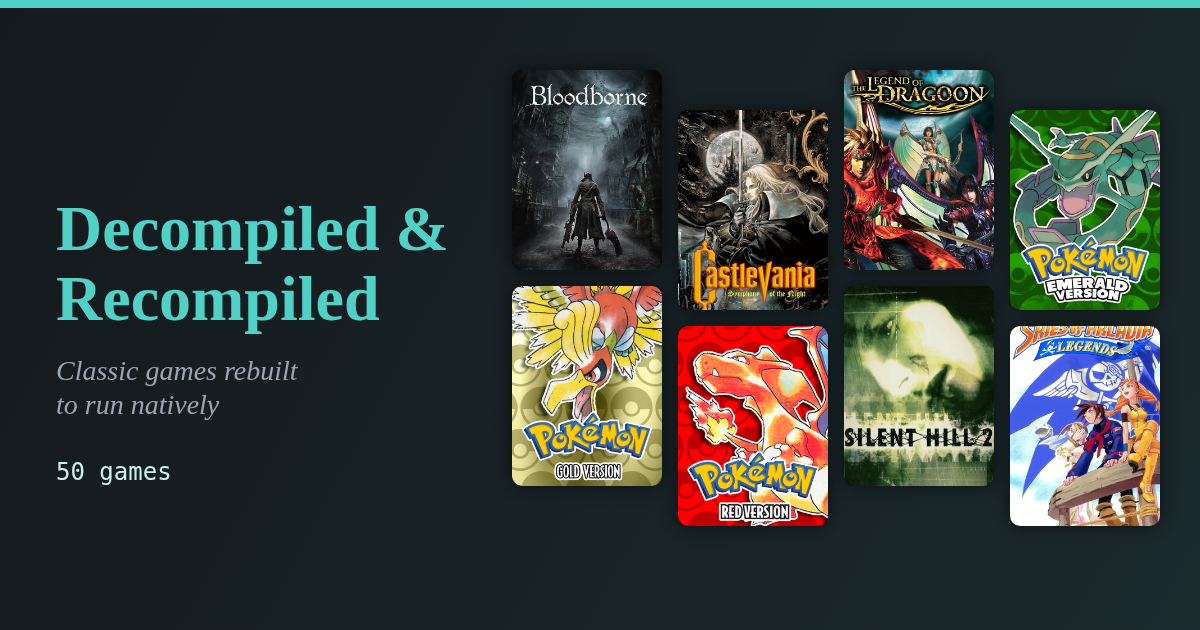
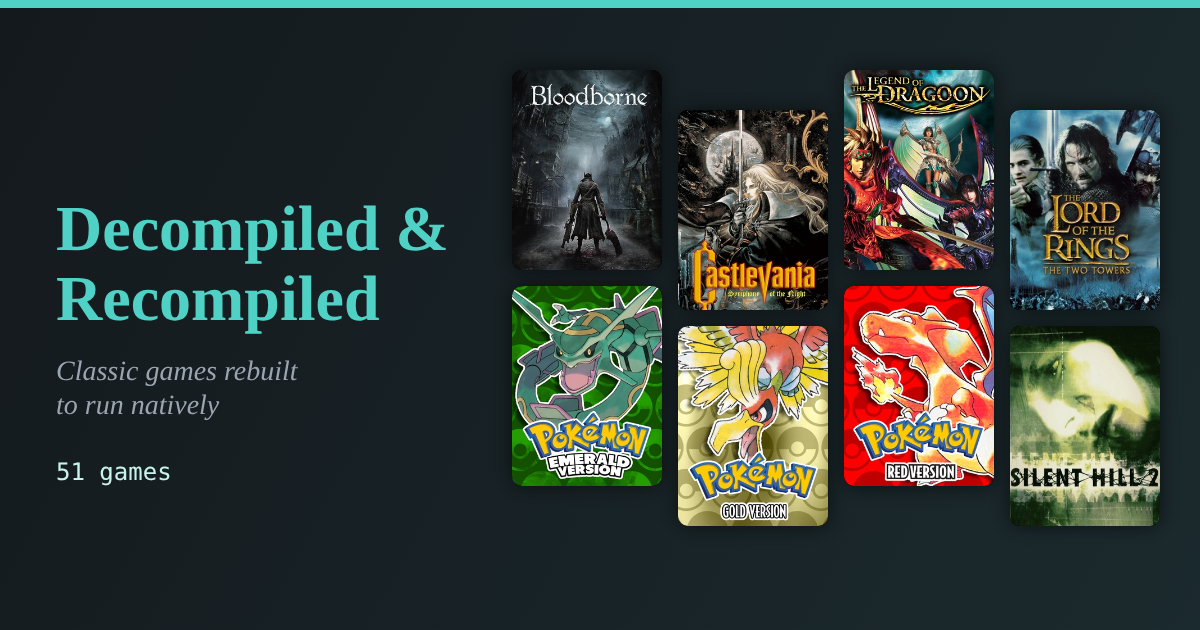
2026-10-25 16:19

Changed region(s): [[0.4008, 0.1508, 0.9867, 0.8444], [0.0617, 0.7238, 0.1542, 0.754]]

diff --git a/recomp/index.html b/recomp/index.html
@@ -33,7 +33,7 @@
 <div id="recomp-body"></div>
 <div class="recomp-header-sub">Updated 2026-10-25</div>
 </div>
-<script type="application/json" id="recomp-data">[{"title":"Banjo-Kazooie","year":"1998","status":"Released","badge":null,"hq":false,"platform":["N64"],"target":["3DS","PC"],"notes":"Supports 3D","cover":"img/banjo-kazooie.png","urls":["https://github.com/aidenator/Lighthouse-3DS/releases","https://github.com/BanjoRecomp/BanjoRecomp/releases"]},{"title":"Bloodborne","year":"2015","status":"Released","badge":null,"hq":true,"platform":["PS4"],"target":["PC"],"notes":"v0.6 - high quality","cover":"img/bloodborne.jpg","urls":["https://github.com/deadinside28/bloodborne_pc/releases"]},{"title":"Burnout 3: Takedown","year":"2004","status":"Released","badge":null,"hq":false,"platform":["PS2"],"target":["PC"],"notes":"","cover":"img/burnout-3-takedown.jpg","urls":["https://github.com/danielgomesvieira2000/burnout3-pc/releases"]},{"title":"Castlevania: Symphony of the Night","year":"1997","status":"Released","badge":null,"hq":true,"platform":["PS1","Saturn"],"target":["PC"],"notes":"In addition to a PC recomp, there is a Sega Saturn in English with PS1 voices.","cover":"img/castlevania-symphony-of-the-night.jpg","urls":["https://github.com/birabittoh/NocturneRecomp/releases","https://www.youtube.com/watch?v=ZLg1NLHEOTk"]},{"title":"Dark Cloud","year":"2000","status":"Unverified","badge":"UNVERIFIED","hq":false,"platform":["PS2"],"target":["PC"],"notes":"Not started until after 2?","cover":"img/dark-cloud.jpg","urls":["https://github.com/TheMoonPeople/Chronicle"]},{"title":"Dark Cloud 2","year":"2002","status":"In Progress","badge":"IN PROGRESS","hq":false,"platform":["PS2"],"target":["PC"],"notes":"v0.9.5 - playable, needs improvement","cover":"img/dark-cloud-2.jpg","urls":["https://github.com/Red-tv141/DC2-PS2RECOMP/releases"]},{"title":"Deception I - Tecmo's Deception: Invitation to Darkness","year":"1996","status":"Unverified","badge":"NEEDS WORK","hq":false,"platform":["PS1"],"target":["PC"],"notes":"Unsure about saving, poor fullscreen UI and mouse usage. Seems more like a wrapper for PCSXE, no graphics options. Runs fine.","cover":"img/deception-i-tecmo-s-deception-invitation-to-darkness.jpg","urls":["https://github.com/dannyowelch/deception-recomp/releases"]},{"title":"Dinosaur Planet","year":"","status":"Released","badge":null,"hq":false,"platform":["N64"],"target":["PC"],"notes":"Unrelease precursor to Starfox Adventures","cover":"img/dinosaur-planet.jpg","urls":["https://github.com/DinosaurPlanetRecomp/dino-recomp/releases"]},{"title":"Donkey Kong 64","year":"","status":"Released","badge":null,"hq":false,"platform":["N64"],"target":["PC","3DS"],"notes":"","cover":"img/donkey-kong-64.jpg","urls":["https://github.com/Rainchus/Donkey-Kong-64-Recompiled/releases","https://github.com/oneup03/Donkey-Kong-64-3D/tree/main/platform/3ds"]},{"title":"Eternal Darkness: Sanity's Requiem","year":"2002","status":"Released","badge":null,"hq":false,"platform":["GC"],"target":["PC"],"notes":"","cover":"img/eternal-darkness-sanity-s-requiem.jpg","urls":["https://github.com/griches/EternalDarknessRecomp/releases"]},{"title":"God of War III","year":"","status":"Released","badge":null,"hq":false,"platform":["PS4"],"target":["PC"],"notes":"Recomp of PS4 remastered edition.","cover":"img/god-of-war-iii.jpg","urls":["https://github.com/FelipePrado0/SpartanPort/releases"]},{"title":"GoldenEye 007 XBLA","year":"2010","status":"Released","badge":null,"hq":false,"platform":["N64","Xbox"],"target":["PC"],"notes":"Unreleased XBOX/XBLA version. A N64 recomp also exists.","cover":"img/goldeneye-007-xbla.jpg","urls":["https://github.com/CaiusCodes/GoldenEye-007-XBLA-PC-Recomp/releases"]},{"title":"Gravity Rush","year":"2012","status":"Released","badge":null,"hq":false,"platform":["PS4"],"target":["PC"],"notes":"v0.1.8","cover":"img/gravity-rush.jpg","urls":["https://github.com/LucaPazienza/gravityrush_pc/releases/"]},{"title":"Gravity Rush 2","year":"2017","status":"Released","badge":null,"hq":false,"platform":["PS4"],"target":["PC"],"notes":"Same author as Last Guardian port.","cover":["https://cdn2.steamgriddb.com/thumb/6ac9536a82fe2896847e4c4fb1f72de2.jpg"],"urls":["https://recompsoftware.com/p/gr2-pc/"]},{"title":"Ico","year":"2001","status":"Released","badge":null,"hq":false,"platform":["PS2"],"target":["PC"],"notes":"v0.8.6","cover":"img/ico.jpg","urls":["https://github.com/nathanialf/ico-pc/releases"]},{"title":"Jak and Daxter: The Precursor Legacy","year":"2001","status":"Released","badge":null,"hq":false,"platform":["PS2"],"target":["PC"],"notes":"OpenGOAL is a total engine rewrite for Jak 1,2,3.","cover":"img/jak-and-daxter-the-precursor-legacy.jpg","urls":["https://opengoal.dev/"]},{"title":"Jet Force Gemini","year":"1999","status":"Released","badge":null,"hq":false,"platform":["N64"],"target":["PC"],"notes":"","cover":"img/jet-force-gemini.jpg","urls":["https://github.com/TK22-26/JetForceGemini-Recomp/releases"]},{"title":"King's Field IV The Ancient City","year":"2001","status":"Unverified","badge":"UNVERIFIED","hq":false,"platform":["PS2"],"target":["PC"],"notes":"","cover":"img/king-s-field-iv-the-ancient-city.jpg","urls":["https://voicedrew11.github.io/kfiv-decomp/progress/"]},{"title":"Legend of Dragoon","year":"2000","status":"Released","badge":null,"hq":true,"platform":["PS1"],"target":["PC"],"notes":"v3.0 - high quality","cover":"img/legend-of-dragoon.jpg","urls":["https://github.com/Legend-of-Dragoon-Modding/Severed-Chains/releases"]},{"title":"Mega Man Legends","year":"1997","status":"Released","badge":null,"hq":false,"platform":["PS1"],"target":["PC"],"notes":"","cover":"img/mega-man-legends.jpg","urls":["https://github.com/VuloB1/MegaManLegendsRecomp/releases/tag/v0.1.0"]},{"title":"Mega Man Legends 2","year":"2000","status":"Unverified","badge":"UNVERIFIED","hq":false,"platform":["PS1"],"target":["PC"],"notes":"Unverified","cover":"img/mega-man-legends-2.jpg","urls":["https://github.com/alexbeavs-ps1-ports/mega-man-legends-2-recomp/releases"]},{"title":"Metroid Prime: Hunters","year":"2006","status":"Released","badge":null,"hq":false,"platform":["DS"],"target":["PC"],"notes":"","cover":"img/metroid-prime-hunters.jpg","urls":["https://github.com/mstan/MetroidPrimeHuntersRecomp/releases","https://github.com/BountyHunterKanden/SecondHunt/releases"]},{"title":"Monster Hunter Generations Ultimate","year":"","status":"Unverified","badge":"UNVERIFIED","hq":false,"platform":["SWITCH"],"target":["PC"],"notes":"","cover":"img/monster-hunter-generations-ultimate.jpg","urls":["https://github.com/morerokk/MHGURecomp/releases"]},{"title":"P.T.","year":"2014","status":"Released","badge":null,"hq":false,"platform":["PS4"],"target":["PC"],"notes":"One of the dumbest things sony ever did was not follow-up this demo.","cover":"img/p-t.jpg","urls":["https://github.com/LoreanXavier/pt-pc/releases"]},{"title":"Papers, Please","year":"2013","status":"Released","badge":null,"hq":false,"platform":["PC"],"target":["3DS"],"notes":"","cover":"img/papers-please.jpg","urls":["https://github.com/Gab2006/Papers-Please3ds/releases/tag/release"]},{"title":"Parasite Eve","year":"1998","status":"Unverified","badge":"UNVERIFIED","hq":false,"platform":["PS1"],"target":["PC"],"notes":"","cover":"img/parasite-eve.jpg","urls":["https://github.com/khasinski/parasite-eve-pc/releases"]},{"title":"Perfect Dark","year":"2000","status":"Released","badge":null,"hq":false,"platform":["N64"],"target":["PC"],"notes":"","cover":"img/perfect-dark.jpg","urls":["https://github.com/n64hub/perfect-dark-recomp/releases"]},{"title":"Pokémon Emerald","year":"2004","status":"Released","badge":null,"hq":true,"platform":["GBA"],"target":["3DS"],"notes":"Dual screen support, 3D voxel graphics option.","cover":"img/pokemon-emerald.jpg","urls":["https://emerald-3ds.com/"]},{"title":"Pokémon Gold","year":"1999","status":"Released","badge":null,"hq":true,"platform":["GB"],"target":["PC"],"notes":"Might prefer Polished Crystal romhack to this recomp.","cover":"img/pokemon-gold.jpg","urls":["https://gen2recomp.net/"]},{"title":"Pokémon Red","year":"1996","status":"Released","badge":null,"hq":true,"platform":["GB"],"target":["PC"],"notes":"","cover":"img/pokemon-red.jpg","urls":["https://gen1recomp.com/"]},{"title":"Resident Evil: Code: Veronica","year":"2000","status":"Released","badge":null,"hq":false,"platform":["PS2"],"target":["PC"],"notes":"","cover":"img/resident-evil-code-veronica.jpg","urls":["https://github.com/aikatore/recvx-enhanced-port/releases"]},{"title":"Shadow of the Colossus","year":"2005","status":"Released","badge":null,"hq":false,"platform":["PS2","PS4"],"target":["PC"],"notes":"PS4 version, may only have windows executable.","cover":"img/shadow-of-the-colossus.jpg","urls":["https://github.com/AjncSystem/ShadowOfTheColossus-PC/releases"]},{"title":"Silent Hill","year":"1999","status":"Released","badge":null,"hq":false,"platform":["PS1"],"target":["PC"],"notes":"","cover":"img/silent-hill.jpg","urls":["https://github.com/SlickAmogus/silent-hill-decomp/releases"]},{"title":"Silent Hill 2","year":"2001","status":"Released","badge":null,"hq":true,"platform":["PS2"],"target":["3DS","PC"],"notes":"sh23ds is a new engine, written in C for the 3DS, that plays Silent Hill 2 from the PC version's own data.","cover":"img/silent-hill-2.jpg","urls":["https://github.com/ankushKun/sh23ds/releases"]},{"title":"Silent Hill: Downpour","year":"2011","status":"Released","badge":null,"hq":false,"platform":["PS3"],"target":["PC"],"notes":"v1.1.8","cover":"img/silent-hill-downpour.jpg","urls":["https://github.com/LittleBitUA/DownpourRecomp/releases"]},{"title":"Skies of Arcadia","year":"2000","status":"Released","badge":null,"hq":true,"platform":["GC"],"target":["PC"],"notes":"Allows extraction of uncompressed audio from dreamcast version for usage in gamecube game. Allows minor un-censorship using Japanese dreamcast version.","cover":"img/skies-of-arcadia.jpg","urls":["https://github.com/ogdanimal/SkiesOfArcadiaLegends-Recomp/releases"]},{"title":"Splatoon","year":"2015","status":"Unverified","badge":"UNVERIFIED","hq":false,"platform":["WiiU"],"target":["PC"],"notes":"No release binary.","cover":"img/splatoon.jpg","urls":["https://github.com/PC-PORTERS/SPLATOON-1-PC-PORT"]},{"title":"Super Mario 64","year":"1996","status":"Released","badge":null,"hq":true,"platform":["N64"],"target":["3DS"],"notes":"Supports 3D","cover":"img/super-mario-64.png","urls":["https://github.com/Splashy527/sm64-port"]},{"title":"The Elder Scrolls III: Morrowind (openMW - Tamriel Rebuild)","year":"2002","status":"Released","badge":null,"hq":true,"platform":["PC"],"target":["PC"],"notes":"OpenMW is a total engine rewrite and the preferred way to play.","cover":"img/the-elder-scrolls-iii-morrowind-openmw-tamriel-rebuild.jpg","urls":["https://openmw.org/","https://www.tamriel-rebuilt.org/","https://openmw-vr.readthedocs.io/en/latest/manuals/installation/install-openmw-vr.html"]},{"title":"The Last Guardian","year":"2016","status":"Released","badge":null,"hq":false,"platform":["PS4"],"target":["PC"],"notes":"","cover":"img/the-last-guardian.jpg","urls":["https://github.com/HayatoG/tlg_pc/releases"]},{"title":"The Legend of Zelda: A Link to the Past","year":"","status":"Released","badge":null,"hq":false,"platform":["SNES"],"target":["3DS","PC"],"notes":"Supports dual screen","cover":"img/the-legend-of-zelda-a-link-to-the-past.jpg","urls":["https://github.com/EstebanPdN/zelda-alttp-3ds/releases"]},{"title":"The Legend of Zelda: Link's Awakening","year":"2019","status":"Released","badge":null,"hq":false,"platform":["SWITCH"],"target":["PC"],"notes":"","cover":"img/the-legend-of-zelda-link-s-awakening.png","urls":["https://github.com/peiikai/LASRecomp/releases"]},{"title":"The Legend of Zelda: Link's Awakening DX","year":"1993","status":"Released","badge":null,"hq":false,"platform":["GB"],"target":["PC"],"notes":"Full remake","cover":"img/the-legend-of-zelda-link-s-awakening-dx.jpg","urls":["https://archive.org/details/links-awakening-dx-hd"]},{"title":"The Legend of Zelda: Majora's Mask","year":"2000","status":"Released","badge":null,"hq":false,"platform":["N64"],"target":["PC"],"notes":"v1.2.2","cover":"img/the-legend-of-zelda-majora-s-mask.jpg","urls":["https://github.com/Zelda64Recomp/Zelda64Recomp/releases"]},{"title":"The Legend of Zelda: Ocarina of Time","year":"1998","status":"Released","badge":null,"hq":true,"platform":["N64"],"target":["PC","PSP"],"notes":"High quality. Includes randomizer.","cover":"img/the-legend-of-zelda-ocarina-of-time.jpg","urls":["https://www.shipofharkinian.com/","https://github.com/z2442/oot-PSP/releases"]},{"title":"The Legend of Zelda: The Wind Waker","year":"2002","status":"Released","badge":null,"hq":true,"platform":["GC","WiiU"],"target":["PC"],"notes":"","cover":"img/the-legend-of-zelda-the-wind-waker.jpg","urls":["https://github.com/ZeldaWWHDRecomp/ZeldaWWHDRecomp/releases"]},{"title":"The Legend of Zelda: Twilight Princess","year":"2006","status":"Released","badge":null,"hq":true,"platform":["GC"],"target":["PC"],"notes":"High quality","cover":"img/the-legend-of-zelda-twilight-princess.jpg","urls":["https://twilitrealm.dev/"]},{"title":"The Simpsons: Hit & Run","year":"2003","status":"Released","badge":null,"hq":true,"platform":["PC"],"target":["3DS"],"notes":"Supports 3D and second screen radar map.","cover":"img/the-simpsons-hit-run.jpg","urls":["https://github.com/AlexMolina08/The-Simpsons-Hit-and-Run-O3DS/releases"]},{"title":"Uncharted: The Nathan Drake Collection","year":"2015","status":"Released","badge":null,"hq":true,"platform":["PS4"],"target":["PC"],"notes":"v0.3.9 wndows/proton","cover":"img/uncharted-the-nathan-drake-collection.jpg","urls":["https://github.com/Supermedo/uncharted_pc/releases"]},{"title":"Valkyrie Profile","year":"1999","status":"Unverified","badge":"UNVERIFIED","hq":false,"platform":["PS1"],"target":["PC"],"notes":"Unverified. Uses PSXRecomp. PSP vesion Lenneth might be a better experience.","cover":"img/valkyrie-profile.jpg","urls":["https://github.com/Ed1z19/ValkyrieRecomp/releases","https://github.com/hachi23/ValkyrieRecomp-Complete"]}]</script>
+<script type="application/json" id="recomp-data">[{"title":"Banjo-Kazooie","year":"1998","status":"Released","badge":null,"hq":false,"platform":["N64"],"target":["3DS","PC"],"notes":"Supports 3D","cover":"img/banjo-kazooie.png","urls":["https://github.com/aidenator/Lighthouse-3DS/releases","https://github.com/BanjoRecomp/BanjoRecomp/releases"]},{"title":"Bloodborne","year":"2015","status":"Released","badge":null,"hq":true,"platform":["PS4"],"target":["PC"],"notes":"v0.6 - high quality","cover":"img/bloodborne.jpg","urls":["https://github.com/deadinside28/bloodborne_pc/releases"]},{"title":"Burnout 3: Takedown","year":"2004","status":"Released","badge":null,"hq":false,"platform":["PS2"],"target":["PC"],"notes":"","cover":"img/burnout-3-takedown.jpg","urls":["https://github.com/danielgomesvieira2000/burnout3-pc/releases"]},{"title":"Castlevania: Symphony of the Night","year":"1997","status":"Released","badge":null,"hq":true,"platform":["PS1","Saturn"],"target":["PC"],"notes":"In addition to a PC recomp, there is a Sega Saturn in English with PS1 voices.","cover":"img/castlevania-symphony-of-the-night.jpg","urls":["https://github.com/birabittoh/NocturneRecomp/releases","https://www.youtube.com/watch?v=ZLg1NLHEOTk"]},{"title":"Dark Cloud","year":"2000","status":"Unverified","badge":"UNVERIFIED","hq":false,"platform":["PS2"],"target":["PC"],"notes":"Not started until after 2?","cover":"img/dark-cloud.jpg","urls":["https://github.com/TheMoonPeople/Chronicle"]},{"title":"Dark Cloud 2","year":"2002","status":"In Progress","badge":"IN PROGRESS","hq":false,"platform":["PS2"],"target":["PC"],"notes":"v0.9.5 - playable, needs improvement","cover":"img/dark-cloud-2.jpg","urls":["https://github.com/Red-tv141/DC2-PS2RECOMP/releases"]},{"title":"Deception I - Tecmo's Deception: Invitation to Darkness","year":"1996","status":"Unverified","badge":"NEEDS WORK","hq":false,"platform":["PS1"],"target":["PC"],"notes":"Unsure about saving, poor fullscreen UI and mouse usage. Seems more like a wrapper for PCSXE, no graphics options. Runs fine.","cover":"img/deception-i-tecmo-s-deception-invitation-to-darkness.jpg","urls":["https://github.com/dannyowelch/deception-recomp/releases"]},{"title":"Dinosaur Planet","year":"","status":"Released","badge":null,"hq":false,"platform":["N64"],"target":["PC"],"notes":"Unrelease precursor to Starfox Adventures","cover":"img/dinosaur-planet.jpg","urls":["https://github.com/DinosaurPlanetRecomp/dino-recomp/releases"]},{"title":"Donkey Kong 64","year":"","status":"Released","badge":null,"hq":false,"platform":["N64"],"target":["PC","3DS"],"notes":"","cover":"img/donkey-kong-64.jpg","urls":["https://github.com/Rainchus/Donkey-Kong-64-Recompiled/releases","https://github.com/oneup03/Donkey-Kong-64-3D/tree/main/platform/3ds"]},{"title":"Eternal Darkness: Sanity's Requiem","year":"2002","status":"Released","badge":null,"hq":false,"platform":["GC"],"target":["PC"],"notes":"","cover":"img/eternal-darkness-sanity-s-requiem.jpg","urls":["https://github.com/griches/EternalDarknessRecomp/releases"]},{"title":"God of War III","year":"","status":"Released","badge":null,"hq":false,"platform":["PS4"],"target":["PC"],"notes":"Recomp of PS4 remastered edition.","cover":"img/god-of-war-iii.jpg","urls":["https://github.com/FelipePrado0/SpartanPort/releases"]},{"title":"GoldenEye 007 XBLA","year":"2010","status":"Released","badge":null,"hq":false,"platform":["N64","Xbox"],"target":["PC"],"notes":"Unreleased XBOX/XBLA version. A N64 recomp also exists.","cover":"img/goldeneye-007-xbla.jpg","urls":["https://github.com/CaiusCodes/GoldenEye-007-XBLA-PC-Recomp/releases"]},{"title":"Gravity Rush","year":"2012","status":"Released","badge":null,"hq":false,"platform":["PS4"],"target":["PC"],"notes":"v0.1.8","cover":"img/gravity-rush.jpg","urls":["https://github.com/LucaPazienza/gravityrush_pc/releases/"]},{"title":"Gravity Rush 2","year":"2017","status":"Released","badge":null,"hq":false,"platform":["PS4"],"target":["PC"],"notes":"Same author as Last Guardian port.","cover":["https://cdn2.steamgriddb.com/thumb/6ac9536a82fe2896847e4c4fb1f72de2.jpg"],"urls":["https://recompsoftware.com/p/gr2-pc/"]},{"title":"Ico","year":"2001","status":"Released","badge":null,"hq":false,"platform":["PS2"],"target":["PC"],"notes":"v0.8.6","cover":"img/ico.jpg","urls":["https://github.com/nathanialf/ico-pc/releases"]},{"title":"Jak and Daxter: The Precursor Legacy","year":"2001","status":"Released","badge":null,"hq":false,"platform":["PS2"],"target":["PC"],"notes":"OpenGOAL is a total engine rewrite for Jak 1,2,3.","cover":"img/jak-and-daxter-the-precursor-legacy.jpg","urls":["https://opengoal.dev/"]},{"title":"Jet Force Gemini","year":"1999","status":"Released","badge":null,"hq":false,"platform":["N64"],"target":["PC"],"notes":"","cover":"img/jet-force-gemini.jpg","urls":["https://github.com/TK22-26/JetForceGemini-Recomp/releases"]},{"title":"King's Field IV The Ancient City","year":"2001","status":"Unverified","badge":"UNVERIFIED","hq":false,"platform":["PS2"],"target":["PC"],"notes":"","cover":"img/king-s-field-iv-the-ancient-city.jpg","urls":["https://voicedrew11.github.io/kfiv-decomp/progress/"]},{"title":"Legend of Dragoon","year":"2000","status":"Released","badge":null,"hq":true,"platform":["PS1"],"target":["PC"],"notes":"v3.0 - high quality","cover":"img/legend-of-dragoon.jpg","urls":["https://github.com/Legend-of-Dragoon-Modding/Severed-Chains/releases"]},{"title":"Lord of the Rings - Athelas","year":"2002","status":"Released","badge":null,"hq":true,"platform":["XBOX"],"target":["PC"],"notes":"3 Xbox games, Fellowship, Two Towers, and Return of the King","cover":"img/lord-of-the-rings-athelas.jpg","urls":["https://github.com/Shagg88/Athelas/releases/tag/1.6.0"]},{"title":"Mega Man Legends","year":"1997","status":"Released","badge":null,"hq":false,"platform":["PS1"],"target":["PC"],"notes":"","cover":"img/mega-man-legends.jpg","urls":["https://github.com/VuloB1/MegaManLegendsRecomp/releases/tag/v0.1.0"]},{"title":"Mega Man Legends 2","year":"2000","status":"Unverified","badge":"UNVERIFIED","hq":false,"platform":["PS1"],"target":["PC"],"notes":"Unverified","cover":"img/mega-man-legends-2.jpg","urls":["https://github.com/alexbeavs-ps1-ports/mega-man-legends-2-recomp/releases"]},{"title":"Metroid Prime: Hunters","year":"2006","status":"Released","badge":null,"hq":false,"platform":["DS"],"target":["PC"],"notes":"","cover":"img/metroid-prime-hunters.jpg","urls":["https://github.com/mstan/MetroidPrimeHuntersRecomp/releases","https://github.com/BountyHunterKanden/SecondHunt/releases"]},{"title":"Monster Hunter Generations Ultimate","year":"","status":"Unverified","badge":"UNVERIFIED","hq":false,"platform":["SWITCH"],"target":["PC"],"notes":"","cover":"img/monster-hunter-generations-ultimate.jpg","urls":["https://github.com/morerokk/MHGURecomp/releases"]},{"title":"P.T.","year":"2014","status":"Released","badge":null,"hq":false,"platform":["PS4"],"target":["PC"],"notes":"One of the dumbest things sony ever did was not follow-up this demo.","cover":"img/p-t.jpg","urls":["https://github.com/LoreanXavier/pt-pc/releases"]},{"title":"Papers, Please","year":"2013","status":"Released","badge":null,"hq":false,"platform":["PC"],"target":["3DS"],"notes":"","cover":"img/papers-please.jpg","urls":["https://github.com/Gab2006/Papers-Please3ds/releases/tag/release"]},{"title":"Parasite Eve","year":"1998","status":"Unverified","badge":"UNVERIFIED","hq":false,"platform":["PS1"],"target":["PC"],"notes":"","cover":"img/parasite-eve.jpg","urls":["https://github.com/khasinski/parasite-eve-pc/releases"]},{"title":"Perfect Dark","year":"2000","status":"Released","badge":null,"hq":false,"platform":["N64"],"target":["PC"],"notes":"","cover":"img/perfect-dark.jpg","urls":["https://github.com/n64hub/perfect-dark-recomp/releases"]},{"title":"Pokémon Emerald","year":"2004","status":"Released","badge":null,"hq":true,"platform":["GBA"],"target":["3DS"],"notes":"Dual screen support, 3D voxel graphics option.","cover":"img/pokemon-emerald.jpg","urls":["https://emerald-3ds.com/"]},{"title":"Pokémon Gold","year":"1999","status":"Released","badge":null,"hq":true,"platform":["GB"],"target":["PC"],"notes":"Might prefer Polished Crystal romhack to this recomp.","cover":"img/pokemon-gold.jpg","urls":["https://gen2recomp.net/"]},{"title":"Pokémon Red","year":"1996","status":"Released","badge":null,"hq":true,"platform":["GB"],"target":["PC"],"notes":"","cover":"img/pokemon-red.jpg","urls":["https://gen1recomp.com/"]},{"title":"Resident Evil: Code: Veronica","year":"2000","status":"Released","badge":null,"hq":false,"platform":["PS2"],"target":["PC"],"notes":"","cover":"img/resident-evil-code-veronica.jpg","urls":["https://github.com/aikatore/recvx-enhanced-port/releases"]},{"title":"Shadow of the Colossus","year":"2005","status":"Released","badge":null,"hq":false,"platform":["PS2","PS4"],"target":["PC"],"notes":"PS4 version, may only have windows executable.","cover":"img/shadow-of-the-colossus.jpg","urls":["https://github.com/AjncSystem/ShadowOfTheColossus-PC/releases"]},{"title":"Silent Hill","year":"1999","status":"Released","badge":null,"hq":false,"platform":["PS1"],"target":["PC"],"notes":"","cover":"img/silent-hill.jpg","urls":["https://github.com/SlickAmogus/silent-hill-decomp/releases"]},{"title":"Silent Hill 2","year":"2001","status":"Released","badge":null,"hq":true,"platform":["PS2"],"target":["3DS","PC"],"notes":"sh23ds is a new engine, written in C for the 3DS, that plays Silent Hill 2 from the PC version's own data.","cover":"img/silent-hill-2.jpg","urls":["https://github.com/ankushKun/sh23ds/releases"]},{"title":"Silent Hill: Downpour","year":"2011","status":"Released","badge":null,"hq":false,"platform":["PS3"],"target":["PC"],"notes":"v1.1.8","cover":"img/silent-hill-downpour.jpg","urls":["https://github.com/LittleBitUA/DownpourRecomp/releases"]},{"title":"Skies of Arcadia","year":"2000","status":"Released","badge":null,"hq":true,"platform":["GC"],"target":["PC"],"notes":"Allows extraction of uncompressed audio from dreamcast version for usage in gamecube game. Allows minor un-censorship using Japanese dreamcast version.","cover":"img/skies-of-arcadia.jpg","urls":["https://github.com/ogdanimal/SkiesOfArcadiaLegends-Recomp/releases"]},{"title":"Splatoon","year":"2015","status":"Unverified","badge":"UNVERIFIED","hq":false,"platform":["WiiU"],"target":["PC"],"notes":"No release binary.","cover":"img/splatoon.jpg","urls":["https://github.com/PC-PORTERS/SPLATOON-1-PC-PORT"]},{"title":"Super Mario 64","year":"1996","status":"Released","badge":null,"hq":true,"platform":["N64"],"target":["3DS"],"notes":"Supports 3D","cover":"img/super-mario-64.png","urls":["https://github.com/Splashy527/sm64-port"]},{"title":"The Elder Scrolls III: Morrowind (openMW - Tamriel Rebuild)","year":"2002","status":"Released","badge":null,"hq":true,"platform":["PC"],"target":["PC"],"notes":"OpenMW is a total engine rewrite and the preferred way to play.","cover":"img/the-elder-scrolls-iii-morrowind-openmw-tamriel-rebuild.jpg","urls":["https://openmw.org/","https://www.tamriel-rebuilt.org/","https://openmw-vr.readthedocs.io/en/latest/manuals/installation/install-openmw-vr.html"]},{"title":"The Last Guardian","year":"2016","status":"Released","badge":null,"hq":false,"platform":["PS4"],"target":["PC"],"notes":"","cover":"img/the-last-guardian.jpg","urls":["https://github.com/HayatoG/tlg_pc/releases"]},{"title":"The Legend of Zelda: A Link to the Past","year":"","status":"Released","badge":null,"hq":false,"platform":["SNES"],"target":["3DS","PC"],"notes":"Supports dual screen","cover":"img/the-legend-of-zelda-a-link-to-the-past.jpg","urls":["https://github.com/EstebanPdN/zelda-alttp-3ds/releases"]},{"title":"The Legend of Zelda: Link's Awakening","year":"2019","status":"Released","badge":null,"hq":false,"platform":["SWITCH"],"target":["PC"],"notes":"","cover":"img/the-legend-of-zelda-link-s-awakening.png","urls":["https://github.com/peiikai/LASRecomp/releases"]},{"title":"The Legend of Zelda: Link's Awakening DX","year":"1993","status":"Released","badge":null,"hq":false,"platform":["GB"],"target":["PC"],"notes":"Full remake","cover":"img/the-legend-of-zelda-link-s-awakening-dx.jpg","urls":["https://archive.org/details/links-awakening-dx-hd"]},{"title":"The Legend of Zelda: Majora's Mask","year":"2000","status":"Released","badge":null,"hq":false,"platform":["N64"],"target":["PC"],"notes":"v1.2.2","cover":"img/the-legend-of-zelda-majora-s-mask.jpg","urls":["https://github.com/Zelda64Recomp/Zelda64Recomp/releases"]},{"title":"The Legend of Zelda: Ocarina of Time","year":"1998","status":"Released","badge":null,"hq":true,"platform":["N64"],"target":["PC","PSP"],"notes":"High quality. Includes randomizer.","cover":"img/the-legend-of-zelda-ocarina-of-time.jpg","urls":["https://www.shipofharkinian.com/","https://github.com/z2442/oot-PSP/releases"]},{"title":"The Legend of Zelda: The Wind Waker","year":"2002","status":"Released","badge":null,"hq":true,"platform":["GC","WiiU"],"target":["PC"],"notes":"","cover":"img/the-legend-of-zelda-the-wind-waker.jpg","urls":["https://github.com/ZeldaWWHDRecomp/ZeldaWWHDRecomp/releases"]},{"title":"The Legend of Zelda: Twilight Princess","year":"2006","status":"Released","badge":null,"hq":true,"platform":["GC"],"target":["PC"],"notes":"High quality","cover":"img/the-legend-of-zelda-twilight-princess.jpg","urls":["https://twilitrealm.dev/"]},{"title":"The Simpsons: Hit & Run","year":"2003","status":"Released","badge":null,"hq":true,"platform":["PC"],"target":["3DS"],"notes":"Supports 3D and second screen radar map.","cover":"img/the-simpsons-hit-run.jpg","urls":["https://github.com/AlexMolina08/The-Simpsons-Hit-and-Run-O3DS/releases"]},{"title":"Uncharted: The Nathan Drake Collection","year":"2015","status":"Released","badge":null,"hq":true,"platform":["PS4"],"target":["PC"],"notes":"v0.3.9 wndows/proton","cover":"img/uncharted-the-nathan-drake-collection.jpg","urls":["https://github.com/Supermedo/uncharted_pc/releases"]},{"title":"Valkyrie Profile","year":"1999","status":"Unverified","badge":"UNVERIFIED","hq":false,"platform":["PS1"],"target":["PC"],"notes":"Unverified. Uses PSXRecomp. PSP vesion Lenneth might be a better experience.","cover":"img/valkyrie-profile.jpg","urls":["https://github.com/Ed1z19/ValkyrieRecomp/releases","https://github.com/hachi23/ValkyrieRecomp-Complete"]}]</script>
 <script>(function webScript() {
     const games = JSON.parse(document.getElementById("recomp-data").textContent);
     const STATUS = {
